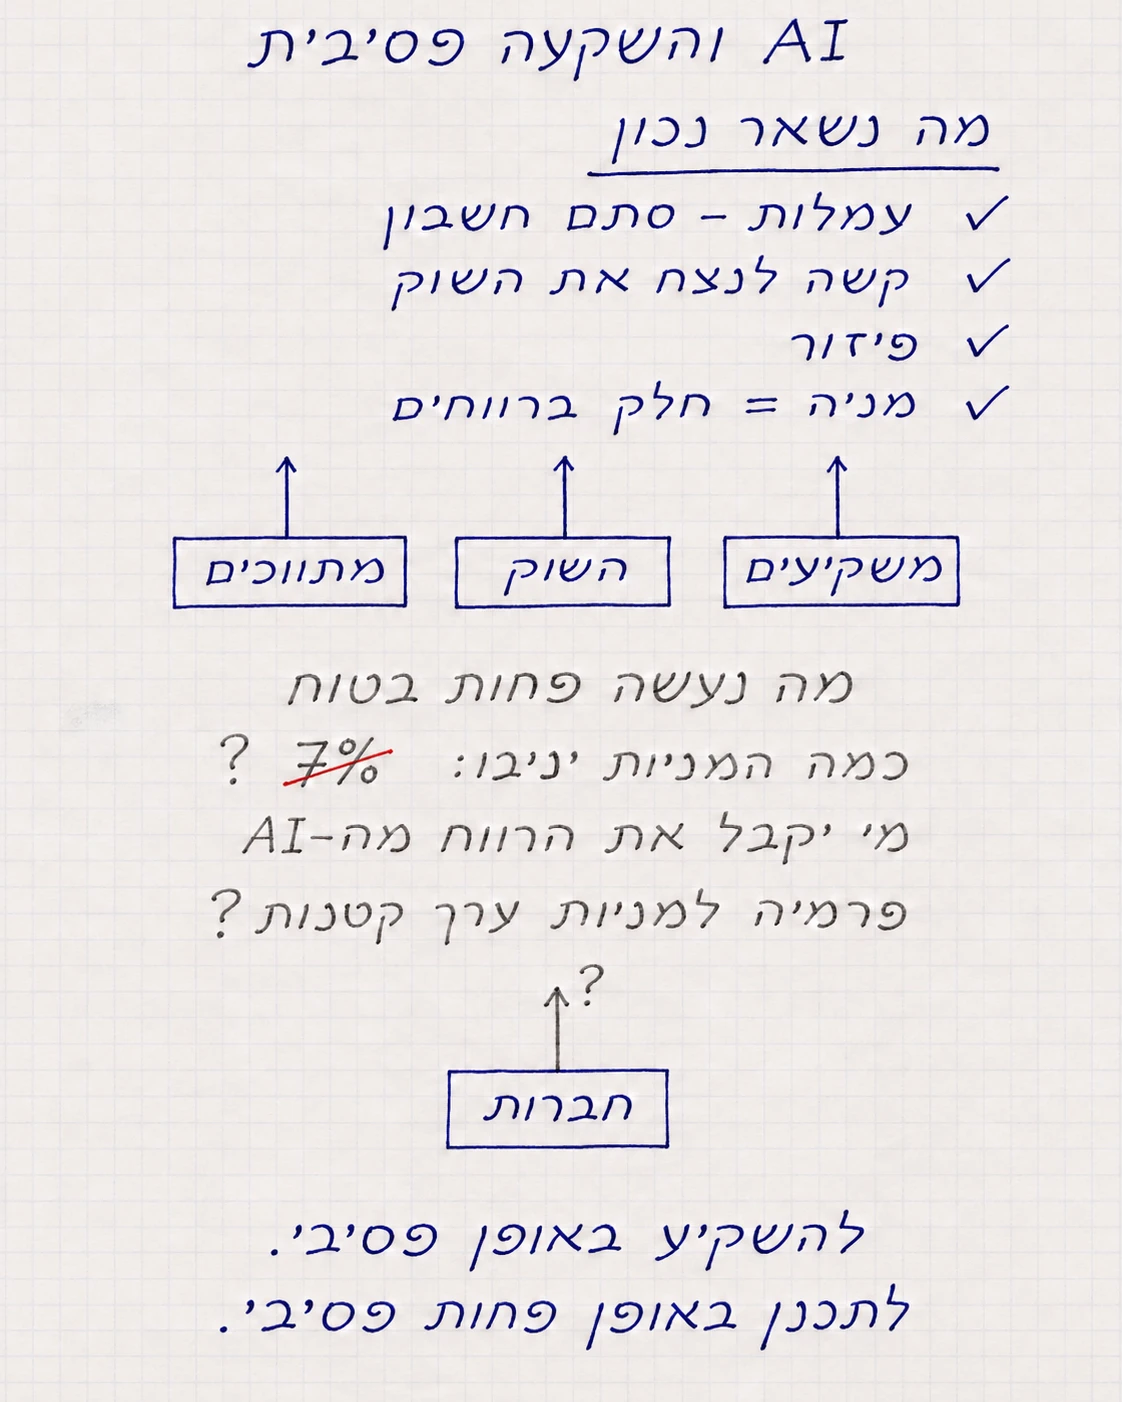
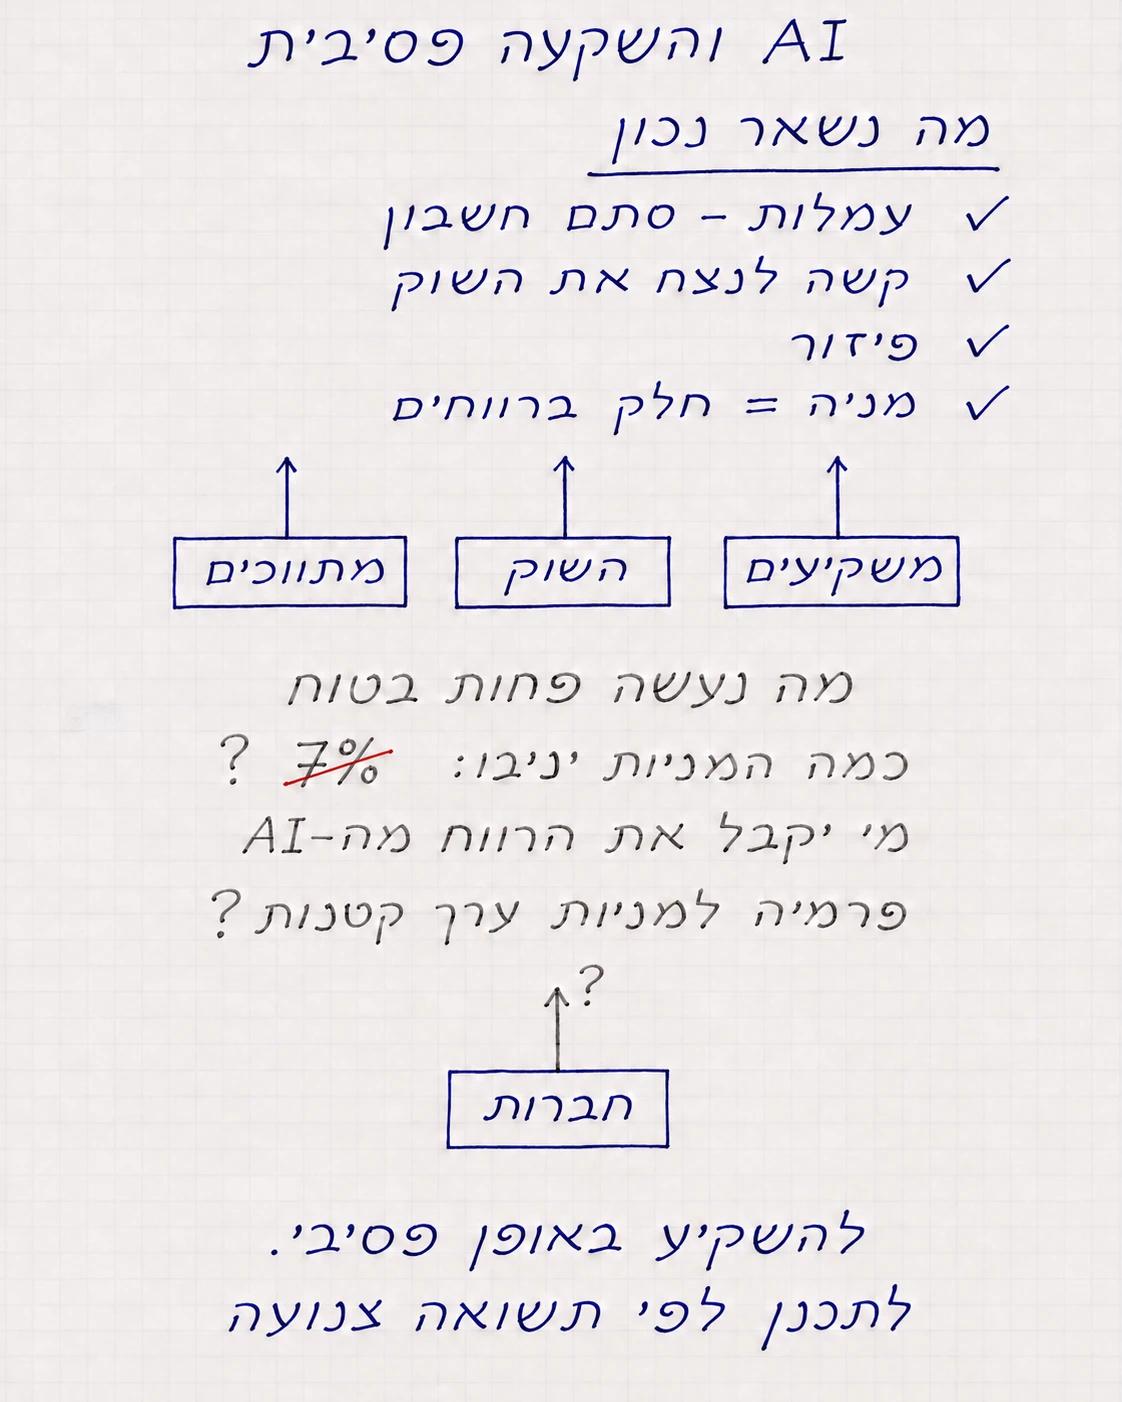
AI page: notebook images end with "plan by a modest return"; link from intro
The new images replace "plan less passively", which could read as advice
to trade more. The intro now links to the AI page.

diff --git a/invest_api/static/app.js b/invest_api/static/app.js
@@ -455,6 +455,11 @@ import {
           "."
         ],
         [
+          "תוהים אם כל זה עדיין נכון, בעולם שה-AI משנה כל כך מהר? כתבתי על זה ",
+          { text: "עמוד נפרד", href: "#ai" },
+          "."
+        ],
+        [
           "אם אתם כבר מכירים את הרקע - אפשר לדלג ישר לכלים, ובעיקר ל",
           { text: "\"השוואת תיקי השקעות פאסיביים\"", href: "#portfolio-summary" },
           "."
@@ -1303,8 +1308,8 @@ import {
             { bold: "בקיצור: ה-AI לא מחליש את ההיגיון של השקעה פסיבית. אולי אפילו להפך. מה שהוא כן מחליש זה את הביטחון במספרים, ובעיקר במספר אחד: כמה המניות יניבו." },
             "כשניסיתי לפרק את השאלה, יצא שה-AI יכול לשנות ארבעה דברים: את החברות, את המשקיעים, את האופן שבו השוק עובד, ואת כל המתווכים שבדרך. באופן קצת מפתיע, שלושה מהם עובדים דווקא לטובת המשקיע הפסיבי: קשה יותר לנצח את השוק, וקל יותר לשלם פחות. הרביעי, החברות, הוא זה שבאמת קובע כמה כסף ייווצר ולמי הוא יגיע. שם, בכנות, אין לאף אחד תשובה.",
             {
-              image: "static/ai-notebook-wide.webp",
-              imageNarrow: "static/ai-notebook-tall.webp",
+              image: "static/ai-notebook-wide.webp?v=2",
+              imageNarrow: "static/ai-notebook-tall.webp?v=2",
               width: 1536,
               height: 1024,
               alt: "דף מחברת בכתב יד. מה נשאר נכון: עמלות הן סתם חשבון, קשה לנצח את השוק, פיזור, מניה היא חלק ברווחים. המשקיעים, השוק והמתווכים מחזקים את הצד הזה. מה נעשה פחות בטוח: כמה המניות יניבו (7% מחוק, וסימן שאלה), מי יקבל את הרווח מה-AI, פרמיה למניות ערך קטנות. החברות משפיעות על הצד הזה, עם סימן שאלה. בתחתית: להשקיע באופן פסיבי. לתכנן באופן פחות פסיבי."
